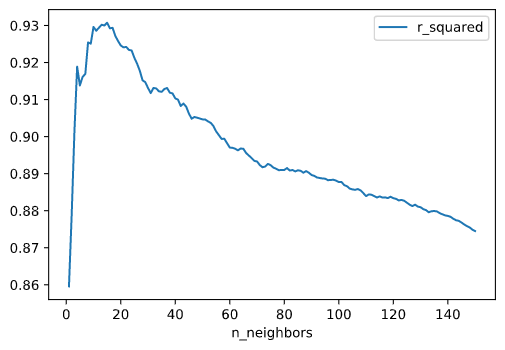
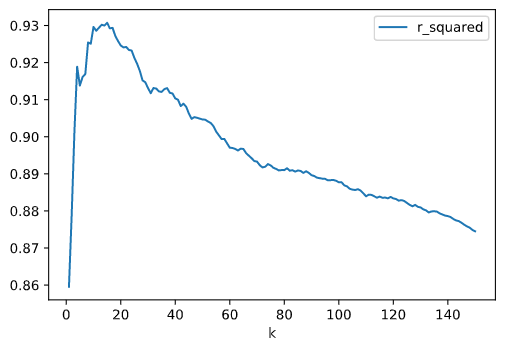
Report updated with information for all methods

diff --git a/README.md b/README.md
@@ -4,7 +4,7 @@ The objective of this project is to calibrate an air pollution sensor in an air 
 * Multiple Linear Regression (MLR)
 * K-Nearest Neighbor (KNN)
 * Random Forest (RF)
-* Kernel Regression (RBF and polynomial)
+* Kernel Regression (KR)
 * Gaussian Process (GP)
 * Support Vector Regression (SVR)
 * Neural Network (NN)
@@ -23,11 +23,11 @@ June 2021
 The dataset consists in the data collected by an air pollution sensor in an air pollution monitoring sensor network. It contains 1000 samples.
 
 The data is organized as follows:
-* date: Timestamp (UTC) for each measurement
-* RefSt: Reference Station O<sub>3</sub> concentrations, in μgr/m<sup>3</sup> (real pollution levels)
-* Sensor O<sub>3</sub> : MOX sensor measurements, in KΩ (unaccurated pollution levels to be calibrated)
-* Temp: Temperature sensor, in °C
-* RelHum: Relative humidity sensor, in %
+* *date*: Timestamp (UTC) for each measurement
+* *RefSt*: Reference Station O<sub>3</sub> concentrations, in μgr/m<sup>3</sup> (real pollution levels)
+* *Sensor_O3* : MOx sensor measurements, in KΩ (unaccurated pollution levels to be calibrated)
+* *Temp*: Temperature sensor, in °C
+* *RelHum*: Relative humidity sensor, in %
 
 ## Data observation
 
@@ -69,15 +69,18 @@ Furthermore, both variables **Temp** and **RelHum** show on the plots that there
 
 ## Data calibration
 
-A data calibration process must be carried out. To do that, the data captured by the network of three sensors (**Sensor_O3**, **Temp**, and **RelHum**, the *explanatory variables*) will be trained against reference data **RefSt** (the *response variable*) using different regression algorithms.
+A data calibration process must be performed. To do that, data captured by the network of three sensors (**Sensor_O3**, **Temp**, and **RelHum**, the *explanatory variables*) will be trained against reference data **RefSt** (the *response variable*) using different regression algorithms.
 
-For this purpose, the main dataset is splitted into two datasets (train and test), with proportions 80%-20%. Train dataset has 800 rows of information, while test dataset has 200 rows.
+For this purpose, the main dataset is splitted into two datasets (train and test), with **proportions 80%-20%**. Train dataset has 800 rows of information, while test dataset has 200 rows. Given that the dataset contains data from 21 consecutive days, we assume that the **data does not have seasonality**. This is why data split is made without shuffling.
 
 The algorithms are trained using the train dataset (which contains data from the first 17 days), and the results (predictions, loss functions and plots) are calculated using the test dataset (which has data from the last 4 days).
 
 ![Train_Test](img/Train_Test.png)
 
-To check performance and later compare them, some regression loss function values are calculated for each method: **R-square** R<sup>2</sup>, **Root-mean-square deviation** RMSE, and **Mean absolute error** MAE.
+To check performance and later compare them, some **regression loss function** values are calculated for each method:
+* *Coefficient of determination* R<sup>2</sup>: determines to what extent the variance of one variable explains the variance of the second variable
+* *Root-mean-square error* RMSE:  the standard deviation of the residuals (prediction errors)
+* *Mean absolute error* MAE: a measure of errors between paired observations expressing the same phenomenon
 
 ### Multiple Linear Regression
 
@@ -88,13 +91,12 @@ The most widely used equation to predict levels of ozone is a linear combination
 Pred = β<sub>0</sub> + β<sub>1</sub>·Sensor_O3 + β<sub>2</sub>·Temp + β<sub>3</sub>·RelHum
 
 By using `sklearn`'s linear regression fit function, we obtain the values:
+* β<sub>0</sub> = -41.76274629511223  
+* β<sub>1</sub> = 0.15859004  
+* β<sub>2</sub> = 2.61759675  
+* β<sub>3</sub> = 0.05330829  
 
-β<sub>0</sub> = -41.76274629511223  
-β<sub>1</sub> = 0.15859004  
-β<sub>2</sub> = 2.61759675  
-β<sub>3</sub> = 0.05330829  
-
-The graph below compares the **concentration at the reference station** with the obtained **predicted values** after calibration with Multiple Linear Regression.
+The graph below compares the **real concentration levels at the reference station** (*RefSt*) with the obtained **predicted values** (*MLR_Pred*) after calibration with Multiple Linear Regression.
 
 ![MLR_Pred](img/MLR_Pred.png)
 
@@ -103,33 +105,38 @@ To compare the predicted data with the reference, we draw a scatterplot with a l
 ![MLR_Pred_scatter](img/MLR_Pred_scatter.png)
 
 The obtained loss functions for Multiple Linear Regression are:
-* R-squared = 0.8732519296681992
+* R<sup>2</sup> = 0.8732519296681992
 * RMSE = 216.09227494770417
 * MAE = 12.256238765981713
 
-The new scatterplot, when compared to the original (raw sensor data **Sensor_O3** vs. reference **RefSt**), shows a thinner concentration as it fits better to a line shape, although it is not totally linear yet.
+The new scatterplot, when compared to the original (raw sensor data **Sensor_O3** vs. reference **RefSt**), shows a thinner concentration as it fits better to a line shape, although it is not totally linear.
 
-#### With gradient descent method
+#### With Gradient Descent method
 
 ##### Batch
 
 ##### Stochastic
 
+ Stochastic Gradient Descent is well suited for regression problems with a large number of training samples (>10.000), authough it is suitable for smaller sets.
+
 The data has to be normalised to run a SGD algorithm.
 
 The values obtained by the fit function are:
+* β<sub>0</sub> = 63.5838835  
+* β<sub>1</sub> = 26.38886151  
+* β<sub>2</sub> = 16.75646248  
+* β<sub>3</sub> = -1.34007258  
 
-β<sub>0</sub> = 63.5838835  
-β<sub>1</sub> = 26.38886151  
-β<sub>2</sub> = 16.75646248  
-β<sub>3</sub> = -1.34007258  
+MLR with SGD prediction:
 
 ![MLR_SGD_Pred](img/MLR_SGD_Pred.png)
+
+MLR with SGD correlation:
 
 ![MLR_SGD_Pred_scatter](img/MLR_SGD_Pred_scatter.png)
 
 The obtained loss functions for Multiple Linear Regression with Stochastic Gradient Descent are:
-* R-squared = 0.9200425392993397
+* R<sup>2</sup> = 0.9200425392993397
 * RMSE = 136.3191529197765
 * MAE = 9.344936428513078
 
@@ -138,34 +145,36 @@ The obtained loss functions for Multiple Linear Regression with Stochastic Gradi
 
 ### K-Nearest Neighbor
 
-For a K-Nearest Neighbor regression, there is one hyperparameter to be set: number of neighbors (**n_neighbors**). To tune this parameter for this problem, some performance stats are calculated: **R<sup>2</sup>**, **RMSE**, **MAE**, and **time to solve** (in ms). These parameters are plotted against the number of estimators **n_neighbors**, which ranges from 1 to 150.
+K-Nearest Neighbor takes the k-nearest data points and averages them to create a regression (or classification). Choosing the right *k* (number of neighbors) is key to find the best approximation.
 
-R<sup>2</sup> vs. n_neighbors:
+For a KNN regression, the hyperparameter to be set is the **number of neighbors** (*k*). To tune this parameter, some performance stats are calculated: **R<sup>2</sup>**, **RMSE**, **MAE**, and **time to solve** (in ms). These parameters are plotted against the number of estimators **k**, which ranges from 1 to 150.
+
+R<sup>2</sup> vs. number of neighbors *k*:
 
 ![KNN_Stats_r_squared](img/KNN_Stats_r_squared.png)
 
-RMSE vs. n_neighbors:
+RMSE vs. number of neighbors *k*:
 
 ![KNN_Stats_rmse](img/KNN_Stats_rmse.png)
 
-MAE vs. n_neighbors:
+MAE vs. number of neighbors *k*:
 
 ![KNN_Stats_mae](img/KNN_Stats_mae.png)
 
-Time (ms) vs. n_neighbors:
+Time (ms) vs. number of neighbors *k*:
 
 ![KNN_Stats_time](img/KNN_Stats_time.png)
 
 As showed in the plots, a value of *k* around 20 will optimize the performance, as the loss will be minimal.
 
-To choose the optimal value of *k* (number of neighbors), some guidelines have been set. It is recommended to choose k = sqrt(n), as long as it fulfills:
-* k value should be odd
-* k value must not be multiples of the number of classes
+There are also some guidelines to choose the optimal value of *k*. It is recommended to choose *k ≈ sqrt(n)*, being *n* the size of the train dataset. It should fulfill:
+* *k* value should be odd
+* *k* value must not be multiples of the number of classes
 * should not be too small or too large
 
 Increasing *k* too much will tend to smooth graph boundaries and will avoiding overfitting at the cost of some resolution on the predicted output.
 
-The computing time is not a constraint, as increasing the number of neighbors does not increase the execution time (it remains constant).
+The computing time is not a constraint, as increasing the number of neighbors does not increase the execution time (it remains constant to 2ms or 3ms for any value of *k*).
 
 With these considerations and the results of the optimization, *k* is set to 19, and the results below are obtained:
 
@@ -173,15 +182,17 @@ With these considerations and the results of the optimization, *k* is set to 19,
 
 ![KNN_Pred_scatter](img/KNN_Pred_scatter.png)
 
-The obtained loss functions for K-Nearest Neighbor with ``k=19`` are:
-* R-squared = 0.9258139236698661
+The obtained loss functions for K-Nearest Neighbor with ``k = 19`` are:
+* R<sup>2</sup> = 0.9258139236698661
 * RMSE = 126.47954293628808
 * MAE = 8.27657894736842
 
 
 ### Random Forest
 
-There is one hyperparameter to be set in Random Forest: number of trees (**n_estimators**). To tune this parameter for this problem, some performance stats are calculated: **R<sup>2</sup>**, **RMSE**, **MAE**, and **time to solve** (in ms). These parameters are plotted against the number of estimators **n_estimators**, which ranges from 1 to 100.
+Random Forest is an ensemble method for regression that combines the predictions from multiple machine learning algorithms. It returns the mean or average prediction of the individual trees to make predictions. The trees in random forests run in parallel, having no interaction among trees when building them.
+
+There is one hyperparameter to be set in Random Forest: **number of trees** (*n_estimators*). To tune this parameter for this problem, some performance stats are calculated: **R<sup>2</sup>**, **RMSE**, **MAE**, and **time to solve** (in ms). These parameters are plotted against the number of estimators *n_estimators*, which ranges from 1 to 100.
 
 R<sup>2</sup> vs. n_estimators:
 
@@ -199,10 +210,7 @@ Time (ms) vs. n_estimators:
 
 ![RF_Stats_time](img/RF_Stats_time.png)
 
-As showed in the plots, any value for **n_estimators** &ge; 20 tend to stabilize the performance. Given that the time grows linearly as n_estimators increases, we conclude that an optimal value for n_estimators is 20.
-
-Hyperparameters setup:
-* Number of trees (estimators) = 20
+As showed in the plots, any value for *n_estimators* &ge; 20 tend to stabilize the performance. Given that the time grows linearly as *n_estimators* increases, it can be concluded that an optimal value for **number of trees** (*n_estimators*) is 20.
 
 Obtained results:
 
@@ -211,22 +219,22 @@ Obtained results:
 ![RF_Pred_scatter](img/RF_Pred_scatter.png)
 
 The obtained loss functions for Random Forest with the hyperparameters specified above are:
-* R-squared = 0.922410493402684
+* R<sup>2</sup> = 0.922410493402684
 * RMSE = 132.2820375
 * MAE = 8.93075
 
 Variable importances:
-* Sensor_O3: 0.7884045574615424
-* Temp: 0.19142880544508606
-* RelHum: 0.020166637093371624
+* *Sensor_O3*: 78.9%
+* *Temp*: 19.1%
+* *RelHum*: 2%
 
 ### Kernel Regression
 
-Tested with kernels:
-* RBF kernel
+Two kernel regression methods are tested:
+* Radial basis function kernel (RBF)
 * Polynomial kernel
 
-Polynomial kernel hyperparameter setup:
+Polynomial kernel has one hyperparameter, which is the **polynomial degree**. To choose the degree, some performance tests are made for a range of degree from 1 to 25:
 
 R<sup>2</sup> vs. polynomial degree:
 
@@ -244,12 +252,15 @@ Time (ms) vs. polynomial degree:
 
 ![KR_Poly_Stats_time](img/KR_Poly_Stats_time.png)
 
-
-Results:
+The polynomial degree is set to 4, and the results below are obtained:
 
 ![KR_Pred](img/KR_Pred.png)
 
+RBF kernel vs. RefSt:
+
 ![KR_RBF_Pred_scatter](img/KR_RBF_Pred_scatter.png)
+
+Polynomial kernel vs. RefSt:
 
 ![KR_Poly_Pred_scatter](img/KR_Poly_Pred_scatter.png)
 
@@ -258,17 +269,25 @@ The obtained loss functions for RBF and Polynomial Kernel Regression with the hy
 | Kernel |    R<sup>2</sup>   |        RMSE        | MAE               |
 |:------:|:------------------:|:------------------:|-------------------|
 |   RBF  | **0.9180037342579421** | **139.79510342866496** | **9.241265994040084** |
-|  Poly  | 0.9055215854097209 | 161.07586875934803 | 9.56037412633461  |
+|  Polynomial  | 0.9055215854097209 | 161.07586875934803 | 9.56037412633461  |
+
+RBF kernel has a slightly better performance when compared to polynomial kernel.
 
 ### Gaussian Process
 
-Hyperparameters setup:
-* Kernel = RBF (Radial basis function)
-* alpha = 150
+Gaussian Process regression is used with two kernels:
+* RBF
+* Dot product (linear)
+
+A value of `alpha = 150` gives a good performance to both methods, especially to RBF, with the results below:
 
 ![GP_Pred](img/GP_Pred.png)
 
+RBF kernel vs. RefSt:
+
 ![GP_RBF_Pred_scatter](img/GP_RBF_Pred_scatter.png)
+
+Dot product kernel vs. RefSt:
 
 ![GP_DPWK_Pred_scatter](img/GP_DPWK_Pred_scatter.png)
 
@@ -279,22 +298,38 @@ The obtained loss functions for Gaussian Process with RBF kernel and dot product
 |   RBF  | **0.9275242503753743** | **123.5636138201321** | **8.567122982155226** |
 |   Dot  |  0.914179681530673 | 146.3147155315738 | 9.706846921532744 |
 
+RBF outperforms dot product kernel.
+
 ### Support Vector Regression
+
+Support Vector Regression is used with three kernels:
+* RBF
+* Linear
+* Polynomial, degree 3
+
+Results:
 
 ![SVR_Pred](img/SVR_Pred.png)
 
+SVR with RBF kernel vs. RefSt:
+
 ![SVR_RBF_Pred_scatter](img/SVR_RBF_Pred_scatter.png)
+
+SVR with linear kernel vs. RefSt:
 
 ![SVR_Line_Pred_scatter](img/SVR_Line_Pred_scatter.png)
 
+SVR with polynomial kernel vs. RefSt:
+
 ![SVR_Poly_Pred_scatter](img/SVR_Poly_Pred_scatter.png)
 
+Performance results:
 
 |   Kernel   |    R<sup>2</sup>   |        RMSE        | MAE                |
 |:----------:|:------------------:|:------------------:|--------------------|
-|     RBF    | 0.9132819370511462 |  147.8452764812975 | **9.182623447099163**  |
-|   Linear   | **0.9162977175262185** |  **142.7036844878632** | 9.47071994717607   |
-| Polynomial | 0.7678885494815302 | 395.72587774035094 | 16.492567958747035 |
+|     RBF    | 0.9356650868795593 |  109.68433443101408 | 8.085332236192567  |
+|   Linear   | **0.9397667230676832** |  **102.69147140296738** | **7.938243017342343**   |
+| Polynomial | 0.9267388675016871 | 124.90260992031536 | 9.03009598862447 |
 
 ### Neural Network
 
@@ -312,21 +347,25 @@ Where:
 
 With these guidelines, the number of hidden layers is set to 5 and the number of neurons per layer is set to 64.
 
-Regarding the number of epochs, after approximately 150 epochs the loss is stabilized, so it is set to 200.
+Regarding the number of epochs, after approximately 750 epochs the loss is stabilized:
+
+![NN_loss](img/NN_loss.png)
+
+Thus the loss is set to 750.
 
 Some tests were made with the batch size, and a value of 10 turns out to be the one that provides better results.
 
 Hyperparameters setup summary:
 * Number of hidden layers Nh = 5
 * Neurons per layer = 64
-* Epochs = 2000
+* Epochs = 750
 * Batch size = 10
 
 The training process has to be done with normalised values of the data.
 
 Training results:
-* Training time: 6m 15s
-* Minimized loss: 8.22032
+* Training time: 2m 15s
+* Minimized loss: 19.664
 
 Obtained results:
 
@@ -334,14 +373,14 @@ Obtained results:
 
 ![NN_Pred_scatter](img/NN_Pred_scatter.png)
 
-![NN_loss](img/NN_loss.png)
-
 The obtained loss functions for Neural Network with the hyperparameters specified above are:
-* R-squared = 0.9402881574652502
+* R<sup>2</sup> = 0.9402881574652502
 * RMSE = 101.80247999732873
 * MAE = 8.050368747711182
 
-## Results analysis
+## Results summary
+
+The table below shows the performance results of each method obtained in the calibration process:
 
 |                          Method                          | R<sup>2</sup> |      RMSE      |      MAE     |
 |:--------------------------------------------------------:|:-------------:|:--------------:|:------------:|
@@ -353,10 +392,20 @@ The obtained loss functions for Neural Network with the hyperparameters specifie
 |           Polynomial Function Kernel Regression          |    0.905521   |   161.075868   |   9.560374   |
 |          Radial Basis Function Gaussian Process          |    0.927524   |   123.563613   |   8.567122   |
 |           Dot Product Function Gaussian Process          |    0.914179   |   146.314715   |   9.706846   |
-|      Radial Basis Function Support Vector Regression     |    0.913281   |   147.845276   |   9.182623   |
-|             Linear Support Vector Regression             |    0.916297   |   142.703684   |   9.470719   |
-|           Polynomial Support Vector Regression           |    0.767888   |   395.725877   |   16.492567  |
-|                      Neural Network                      |  **0.940288** | **101.802479** | **8.050368** |
+|      Radial Basis Function Support Vector Regression     |    0.935665   |   109.684334   |   8.085332   |
+|             Linear Support Vector Regression             |    0.939766   |   102.691471   | **7.938243** |
+|           Polynomial Support Vector Regression           |    0.926738   |   124.902609   |   9.030095   |
+|                      Neural Network                      |  **0.940288** | **101.802479** |   8.050368   |
+
+Regarding the results, the top three regression methods according to their prediction performance are:
+
+| Ranking |                    Method                    |    R<sup>2</sup>    |    RMSE    |    MAE   |
+|:-------:|:--------------------------------------------:|:--------:|:----------:|:--------:|
+|  Top 1  |                Neural Network                | **0.940288** | **101.802479** | 8.050368 |
+|  Top 2  | Support Vector Regression with linear kernel | 0.939766 | 102.691471 | **7.938243** |
+|  Top 3  |   Support Vector Regression with RBF kernel  | 0.935665 | 109.684334 | 8.085332 |
+
+The Neural Network seems to provide a slightly better performance when compared to Support Vector Regression. Given that the stats are so similar, for this particular problem I would choose SVR with linear kernel, as the process is more deterministic than a NN. That is, in SVR, the performance results are always the same for each run (same R<sup>2</sup>, RMSE and MAE), but in the NN, these stats may change for each run because part of the process is randomized.
 
 ## Source code
 
